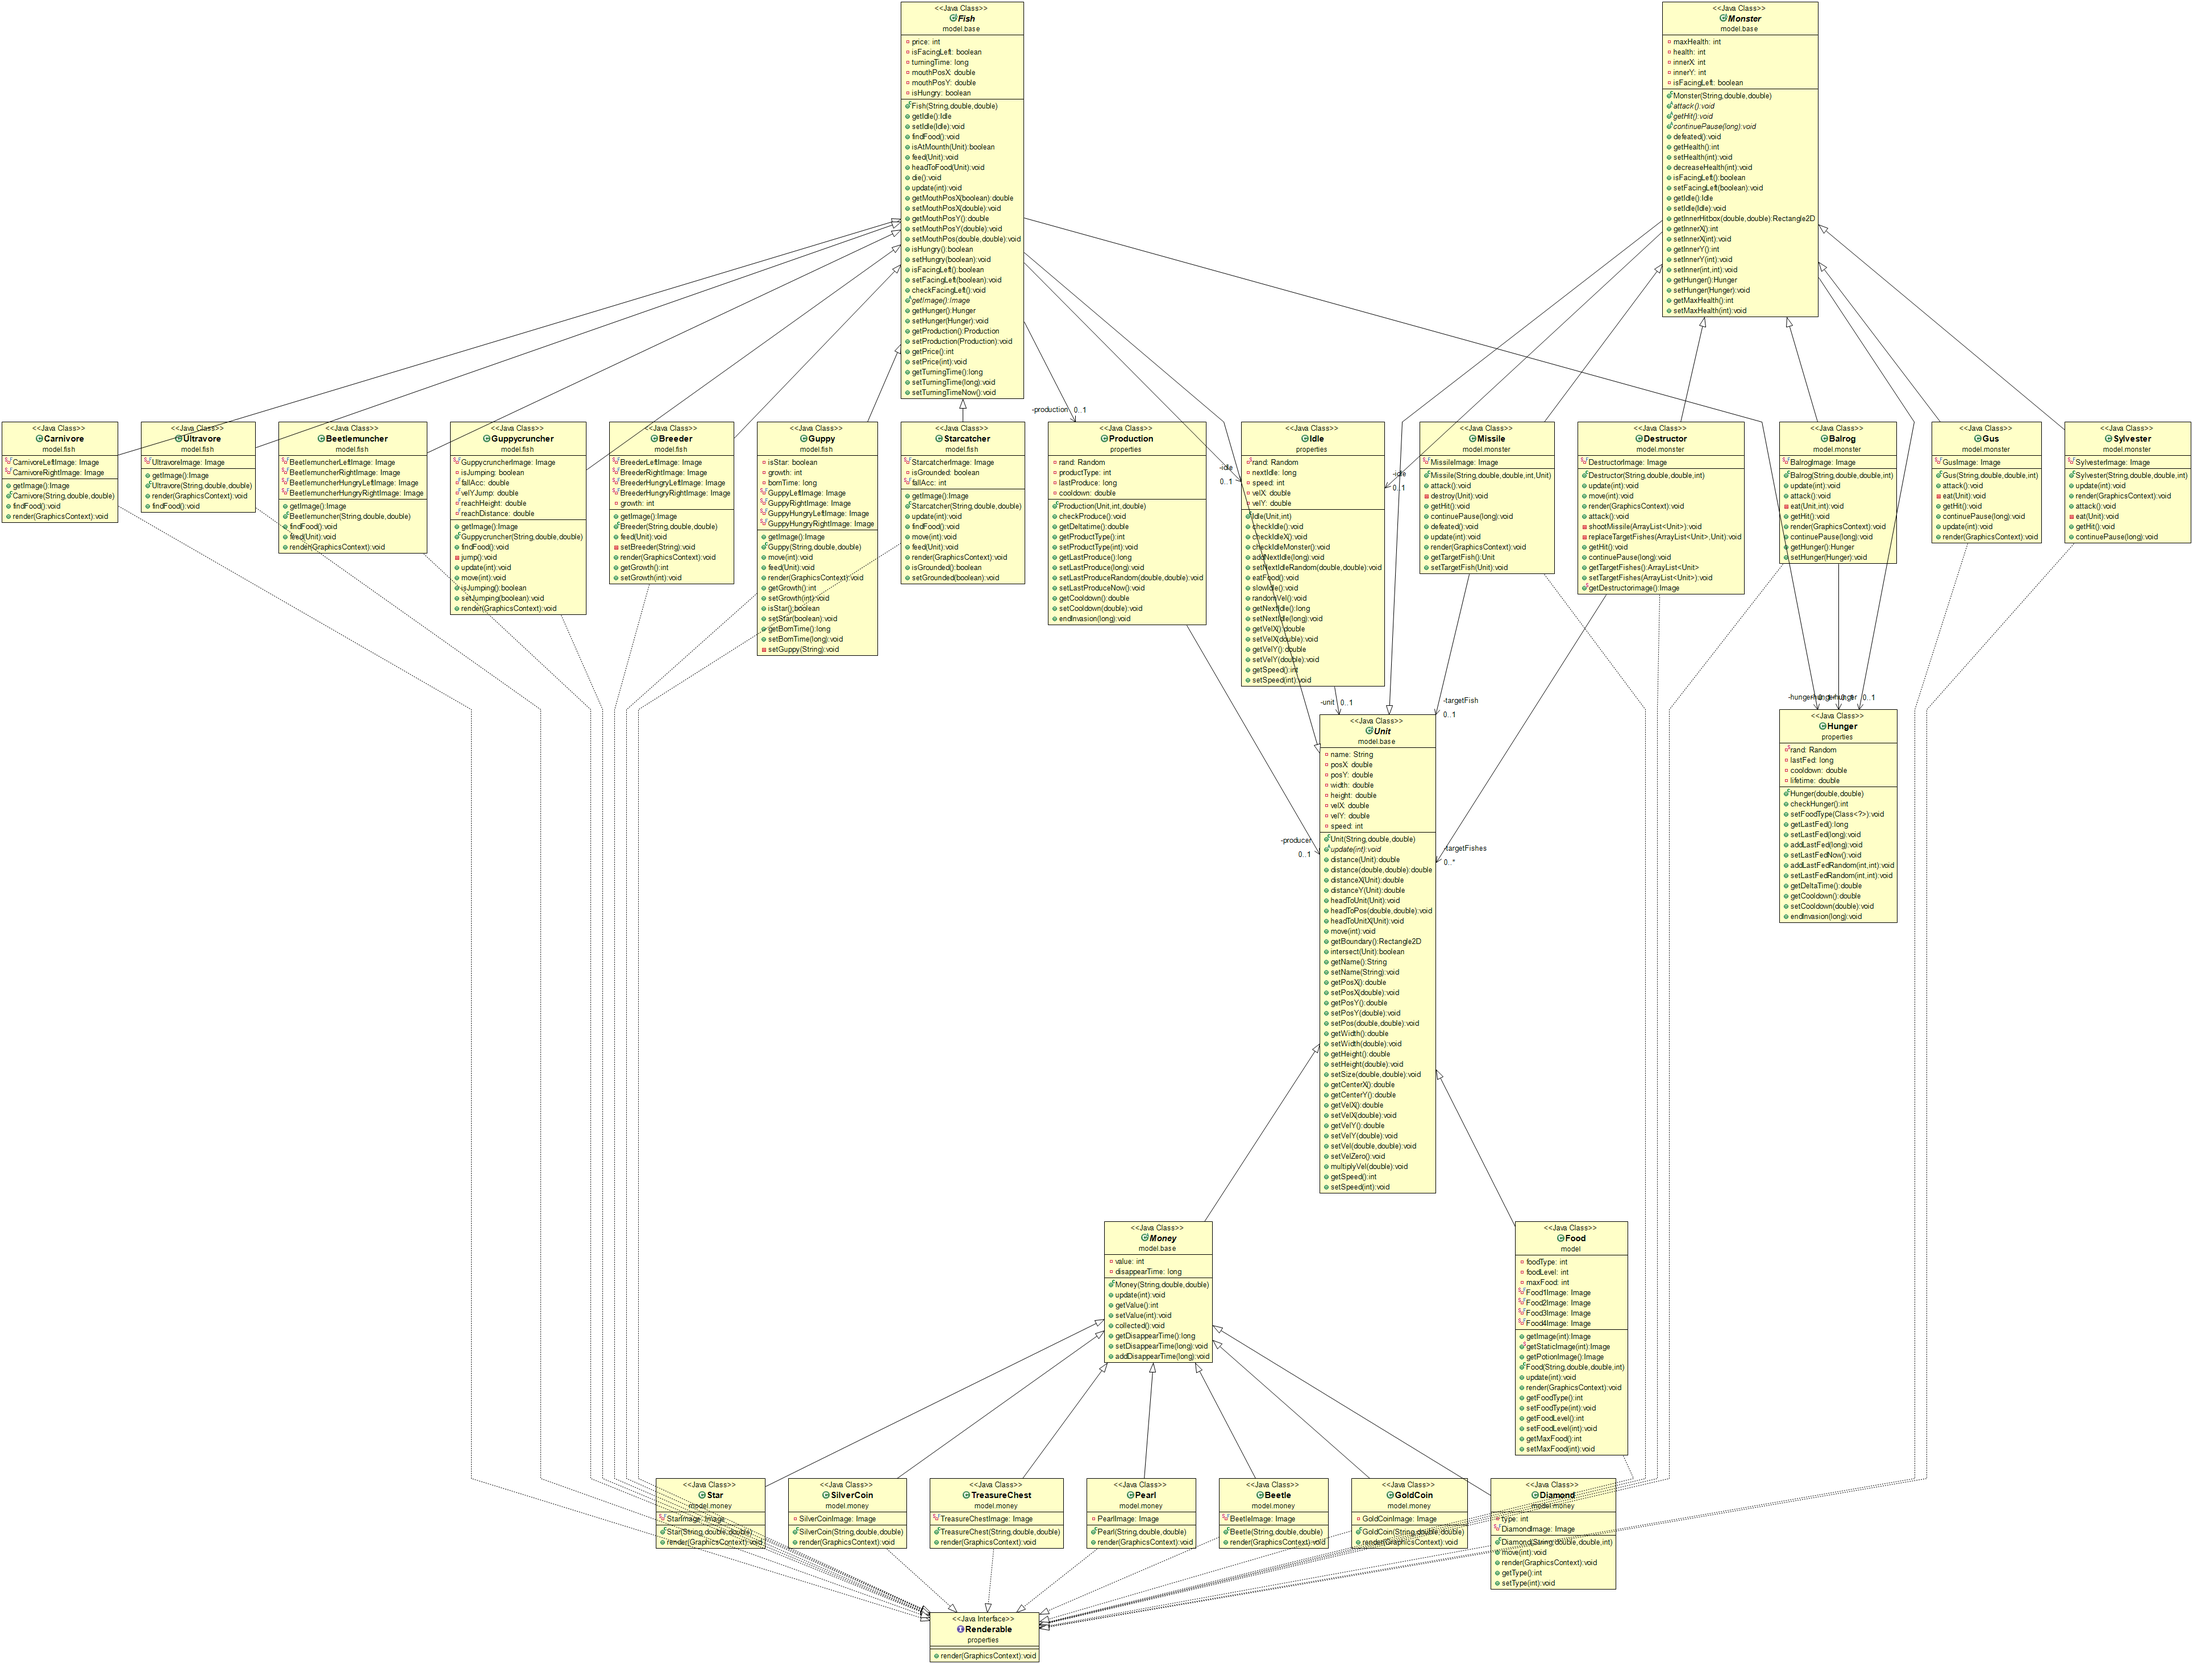
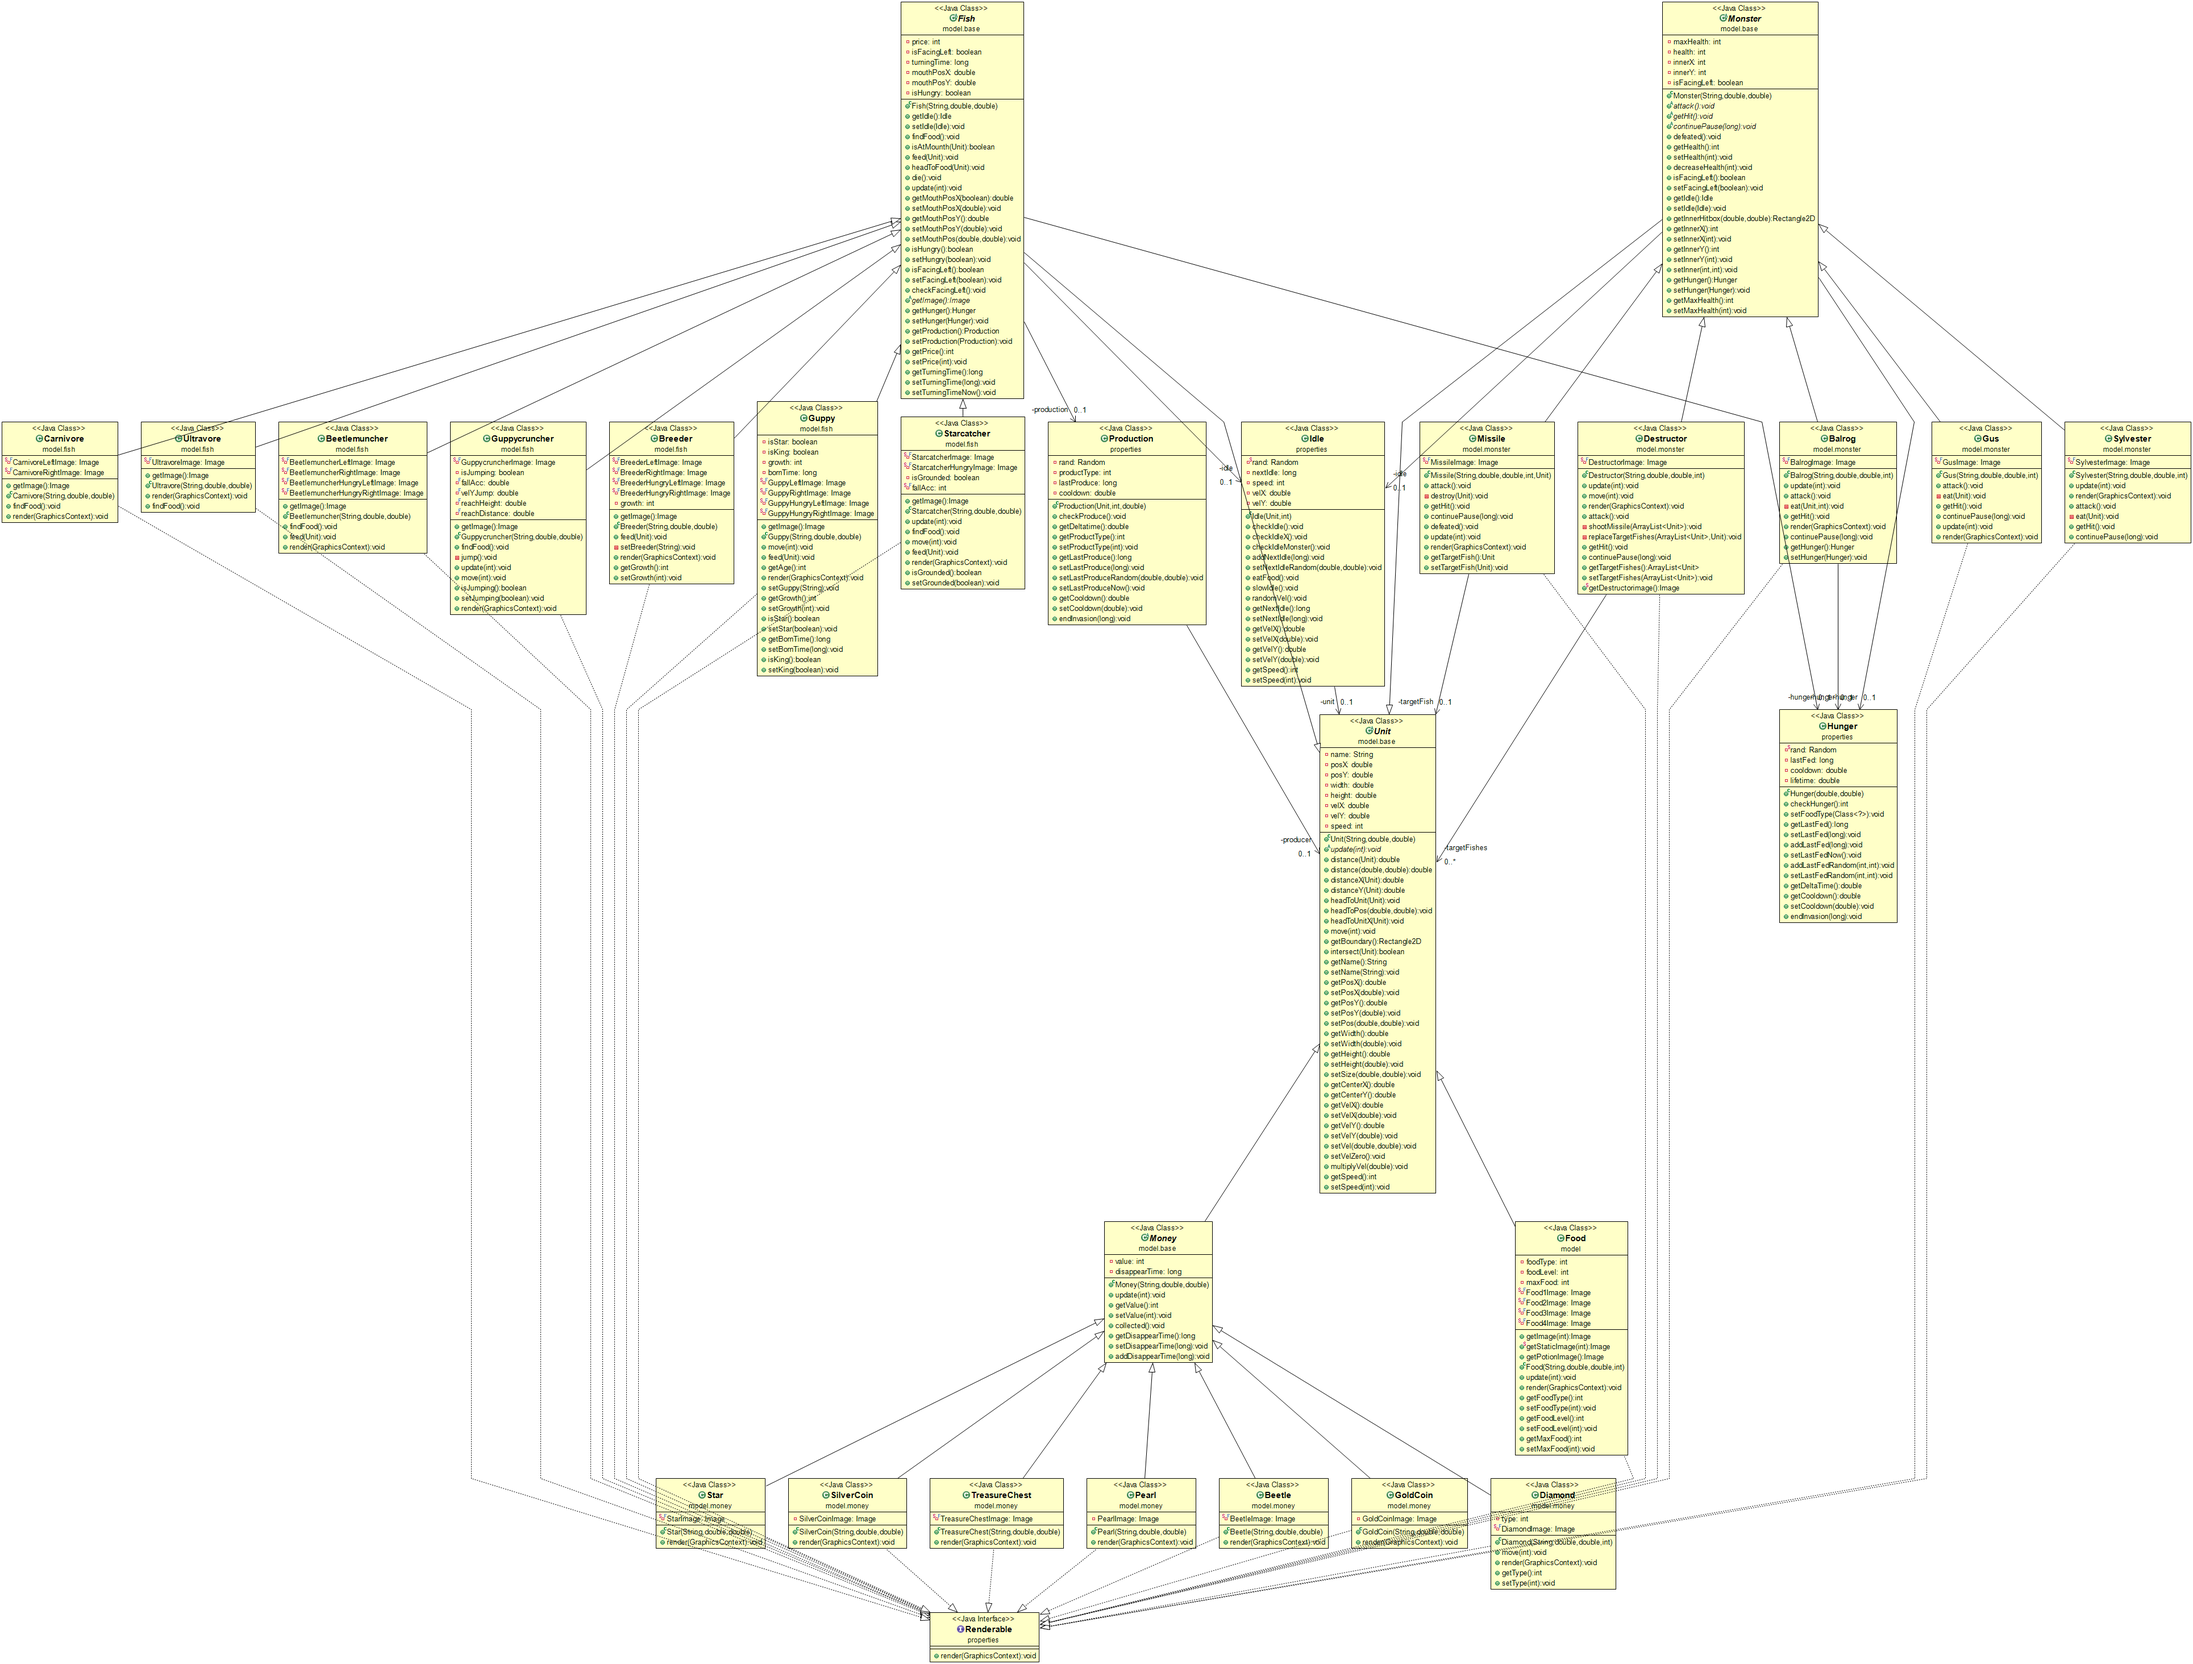
Starcatcher Image
add King Guppy

Changed region(s): [[0.3421, 0.2176, 0.4664, 0.404], [0.5286, 0.9324, 0.5908, 0.9635]]

diff --git a/src/model/fish/Guppy.java b/src/model/fish/Guppy.java
@@ -17,6 +17,7 @@ import properties.Renderable;
 public class Guppy extends Fish implements Renderable {
 
 	private boolean isStar; // StarGuppy
+	private boolean isKing;
 	private int growth; // 0-99 Baby / 100+ Medium / 200 Large
 	private long bornTime;
 
@@ -103,6 +104,9 @@ public class Guppy extends Fish implements Renderable {
 							this.setGuppy("Medium");
 						} else if (this.growth >= 200 && getProduction().getProductType() != 2) {
 							this.setGuppy("Large");
+						} else if (this.growth >= 200 && getAge() > 900 && !isKing) {
+							this.setKing(true);
+							this.getProduction().setProductType(3);
 						}
 					} else if (this.getProduction().getProductType() != 5) {
 						this.getProduction().setProductType(5);
@@ -117,9 +121,13 @@ public class Guppy extends Fish implements Renderable {
 
 	}
 
+	public int getAge() {
+		return (int) ((System.nanoTime() - bornTime) / 1e9);
+	}
+
 	@Override
 	public void render(GraphicsContext gc) {
-		if (isStar) {
+		if (isStar && !isKing) {
 			gc.setGlobalAlpha(0.8);
 			gc.setEffect(new Glow(0.8));
 		}
@@ -141,6 +149,27 @@ public class Guppy extends Fish implements Renderable {
 		gc.setGlobalAlpha(1);
 		gc.setEffect(null);
 
+	}
+
+	public void setGuppy(String string) {
+		if (string == null) {
+			return;
+		}
+		if (string.equals("Small")) {
+			this.setSize(50, 50);
+			this.setMouthPos(15, 30);
+			this.getProduction().setProductType(1);
+		} else if (string.equals("Medium")) {
+			this.setSize(75, 75);
+			this.setMouthPos(15, 55);
+			this.setPos(getPosX() - 12.5, getPosY() - 12.5);
+			this.getProduction().setProductType(1);
+		} else if (string.equals("Large")) {
+			this.setSize(100, 100);
+			this.setMouthPos(15, 75);
+			this.setPos(getPosX() - 12.5, getPosY() - 12.5);
+			this.getProduction().setProductType(2);
+		}
 	}
 
 	public int getGrowth() {
@@ -173,25 +202,12 @@ public class Guppy extends Fish implements Renderable {
 		this.bornTime = bornTime;
 	}
 
-	private void setGuppy(String string) {
-		if (string == null) {
-			return;
-		}
-		if (string.equals("Small")) {
-			this.setSize(50, 50);
-			this.setMouthPos(15, 30);
-			this.getProduction().setProductType(1);
-		} else if (string.equals("Medium")) {
-			this.setSize(75, 75);
-			this.setMouthPos(15, 55);
-			this.setPos(getPosX() - 12.5, getPosY() - 12.5);
-			this.getProduction().setProductType(1);
-		} else if (string.equals("Large")) {
-			this.setSize(100, 100);
-			this.setMouthPos(15, 75);
-			this.setPos(getPosX() - 12.5, getPosY() - 12.5);
-			this.getProduction().setProductType(2);
-		}
+	public boolean isKing() {
+		return isKing;
+	}
+
+	public void setKing(boolean isKing) {
+		this.isKing = isKing;
 	}
 
 }

diff --git a/src/model/fish/Starcatcher.java b/src/model/fish/Starcatcher.java
@@ -18,8 +18,9 @@ import properties.Renderable;
 
 public class Starcatcher extends Fish implements Renderable{
 	
-	private static final Image StarcatcherImage = new Image(ClassLoader.getSystemResource("Guppy.png").toString());
-
+	private static final Image StarcatcherImage = new Image(ClassLoader.getSystemResource("Starcatcher.png").toString());
+	private static final Image StarcatcherHungryImage = new Image(ClassLoader.getSystemResource("StarcatcherHungry.png").toString());
+	
 	public Image getImage() {
 		return StarcatcherImage;
 	}
@@ -29,8 +30,8 @@ public class Starcatcher extends Fish implements Renderable{
 
 	public Starcatcher(String name, double posX, double posY) {
 		super(name, posX, posY);
-		this.setSize(80, 100);
-		this.setMouthPos(15, 60);
+		this.setSize(80, 89);
+		this.setMouthPos(15, 44);
 		
 		this.setSpeed(60);
 		this.setVelZero();
@@ -147,7 +148,6 @@ public class Starcatcher extends Fish implements Renderable{
 					this.getHunger().setLastFedNow();
 					this.getHunger().addLastFedRandom(0, 1);
 				} catch (Exception e) {
-					// TODO Auto-generated catch block
 					e.printStackTrace();
 				}
 			});
@@ -158,9 +158,8 @@ public class Starcatcher extends Fish implements Renderable{
 
 	@Override
 	public void render(GraphicsContext gc) {
-		// TODO Auto-generated method stub
-		if (isFacingLeft()) {
-			gc.drawImage(StarcatcherImage, getPosX(), getPosY(), getWidth(), getHeight());
+		if (isHungry()) {
+			gc.drawImage(StarcatcherHungryImage, getPosX(), getPosY(), getWidth(), getHeight());
 		} else {
 			gc.drawImage(StarcatcherImage, getPosX(), getPosY(), getWidth(), getHeight());
 		}

diff --git a/src/model/fish/Beetlemuncher.java b/src/model/fish/Beetlemuncher.java
@@ -30,7 +30,7 @@ public class Beetlemuncher extends Fish implements Renderable {
 	public Beetlemuncher(String name, double posX, double posY) {
 		super(name, posX, posY);
 		this.setSize(100, 110);
-		this.setMouthPos(15, 60);
+		this.setMouthPos(30, 60);
 
 		this.setSpeed(100);
 

diff --git a/src/manager/GameManager.java b/src/manager/GameManager.java
@@ -177,6 +177,7 @@ public class GameManager {
 		Guppy g3 = new Guppy("g3", 400, 100);
 		g3.setGrowth(200);
 		g3.setStar(true);
+		g3.setGuppy("Large");
 		TankManager.addStartFish(g3);
 
 		Breeder b1 = new Breeder("b1", 400, 288);
